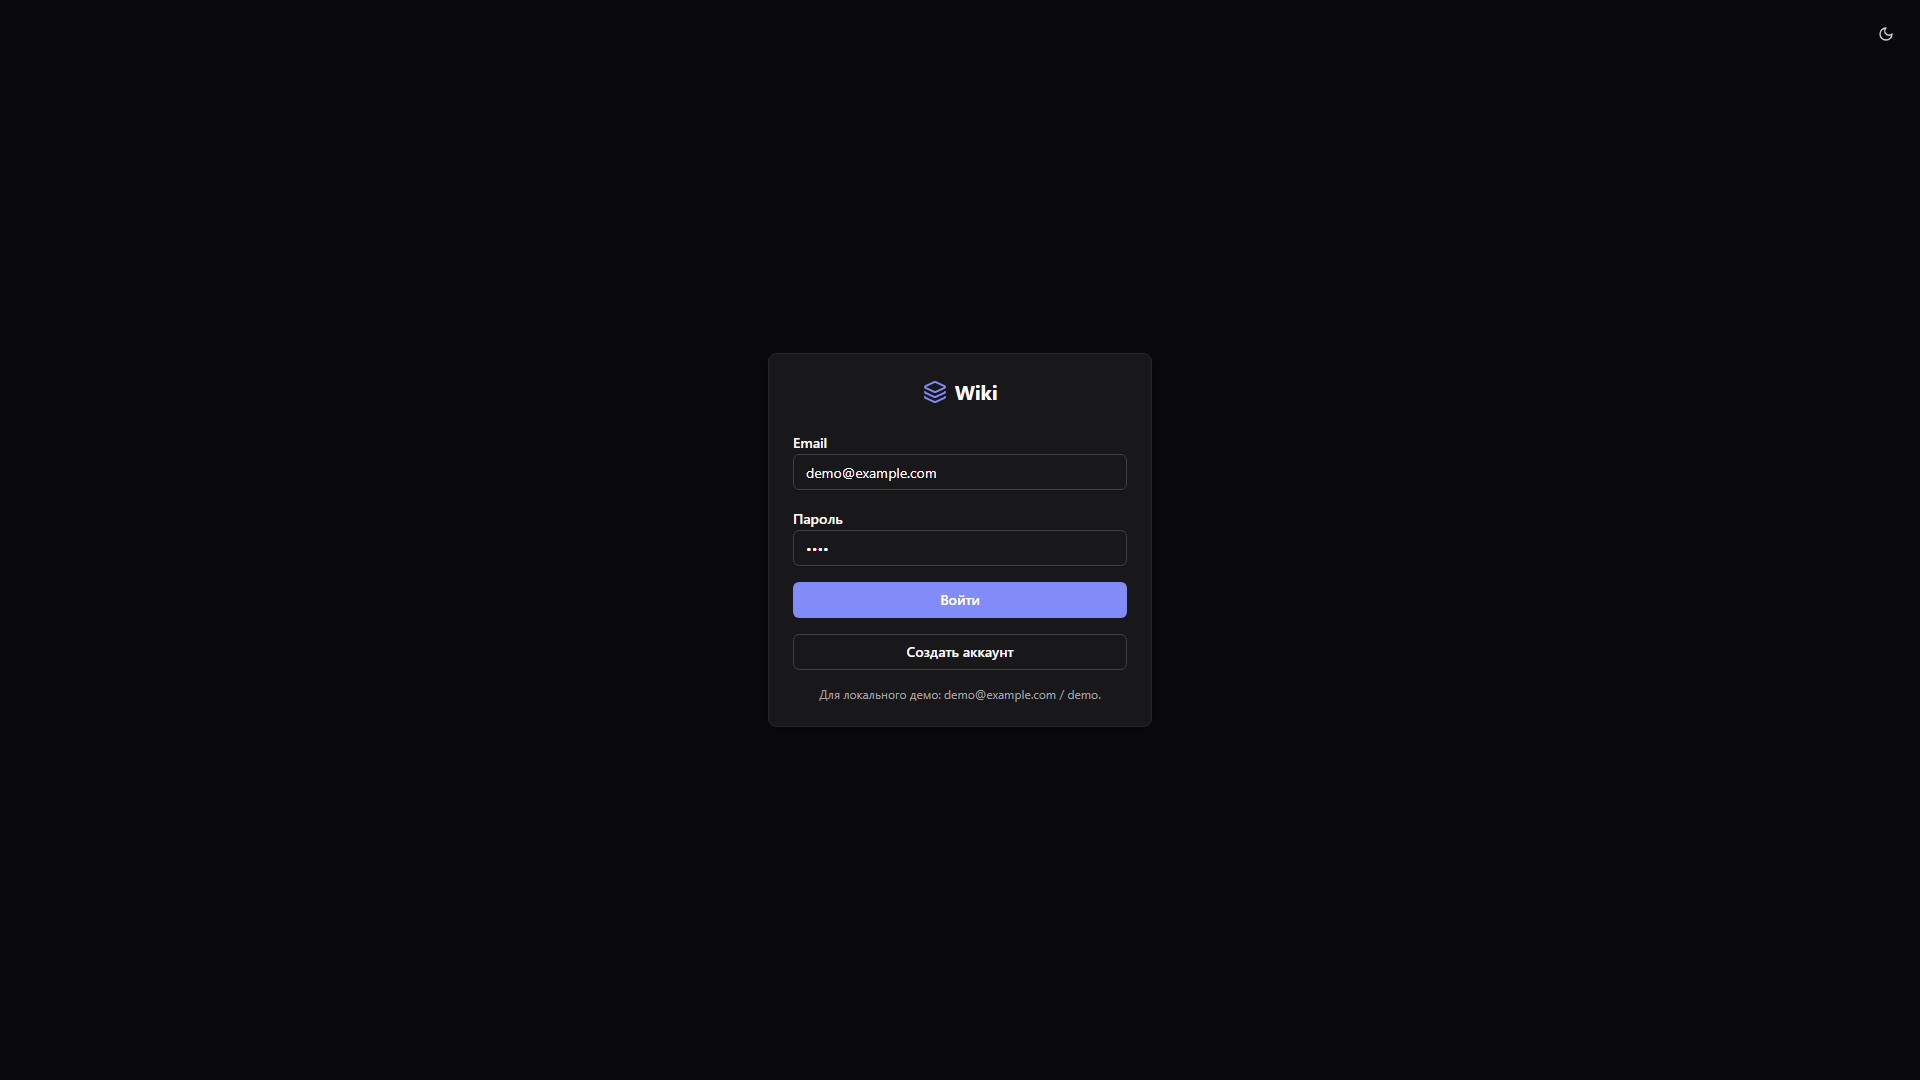
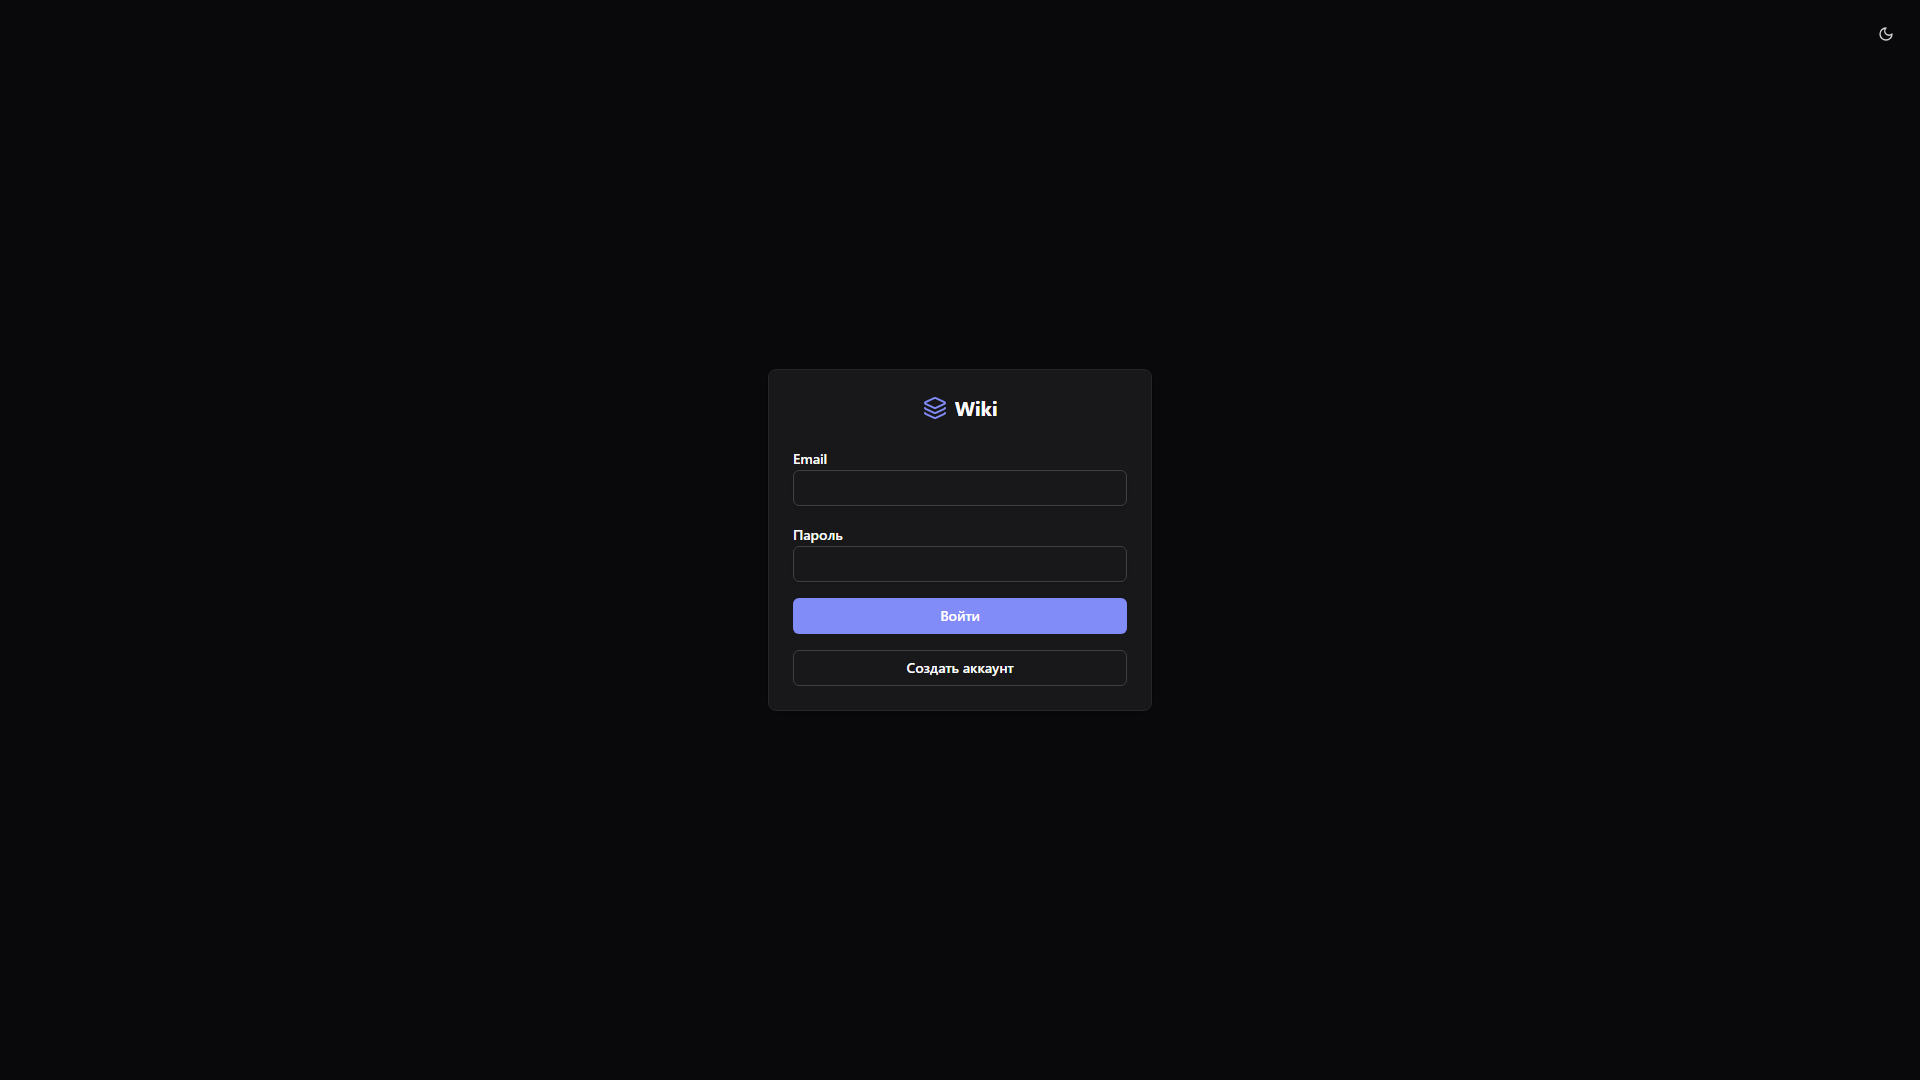
fix(frontend): remove demo login defaults

Changed region(s): [[0.4062, 0.3972, 0.5938, 0.6722], [0.4688, 0.3361, 0.5312, 0.3972]]

diff --git a/frontend/src/pages/login/login.test.tsx b/frontend/src/pages/login/login.test.tsx
@@ -46,22 +46,34 @@ describe('LoginPage', () => {
     login.mockResolvedValueOnce({
       access_token: 'tok',
       user_id: 'u1',
-      email: 'demo@example.com',
+      email: 'admin@example.com',
     })
 
     render(wrapper(<LoginPage />))
     expect(screen.getByText('Wiki')).toBeInTheDocument()
 
-    const email = screen.getByDisplayValue('demo@example.com') as HTMLInputElement
-    await userEvent.clear(email)
-    await userEvent.type(email, 'demo@example.com')
-    const password = screen.getByDisplayValue('demo') as HTMLInputElement
-    await userEvent.clear(password)
-    await userEvent.type(password, 'demo')
+    const email = screen.getByLabelText(/email/i) as HTMLInputElement
+    expect(email).toHaveValue('')
+    await userEvent.type(email, 'admin@example.com')
+    const password = screen.getByLabelText(/пароль|password/i) as HTMLInputElement
+    expect(password).toHaveValue('')
+    await userEvent.type(password, 'correct-horse-battery-staple')
 
     const submit = screen.getByRole('button', { name: /войти|Log in/i })
     await userEvent.click(submit)
 
-    await waitFor(() => expect(login).toHaveBeenCalled())
+    await waitFor(() =>
+      expect(login).toHaveBeenCalledWith(
+        {
+          email: 'admin@example.com',
+          password: 'correct-horse-battery-staple',
+        },
+        expect.anything(),
+      ),
+    )
+    expect(login.mock.calls[0]?.[0]).toEqual({
+      email: 'admin@example.com',
+      password: 'correct-horse-battery-staple',
+    })
   })
 })

diff --git a/frontend/src/pages/login/index.tsx b/frontend/src/pages/login/index.tsx
@@ -13,8 +13,8 @@ export function LoginPage() {
   const { t } = useTranslation()
   const navigate = useNavigate()
   const { mutate, isPending, error } = useLogin()
-  const [email, setEmail] = useState('demo@example.com')
-  const [password, setPassword] = useState('demo')
+  const [email, setEmail] = useState('')
+  const [password, setPassword] = useState('')
 
   function handleSubmit(e: React.FormEvent) {
     e.preventDefault()
@@ -44,6 +44,7 @@ export function LoginPage() {
             <Input
               id="login-email"
               type="email"
+              autoComplete="email"
               value={email}
               onChange={(e) => setEmail(e.target.value)}
               required
@@ -56,6 +57,7 @@ export function LoginPage() {
             <Input
               id="login-password"
               type="password"
+              autoComplete="current-password"
               value={password}
               onChange={(e) => setPassword(e.target.value)}
               required
@@ -69,7 +71,6 @@ export function LoginPage() {
             <a href="/register">{t('auth.createAccount')}</a>
           </Button>
         </form>
-        <p className="mt-4 text-center text-xs text-text-muted">{t('auth.loginDemo')}</p>
       </div>
     </div>
   )

diff --git a/frontend/e2e/smoke.spec.ts b/frontend/e2e/smoke.spec.ts
@@ -7,9 +7,9 @@ const baseURL =
 const now = '2026-08-31T10:00:00Z'
 const user = {
   id: '00000000-0000-0000-0000-000000000001',
-  email: 'demo@example.com',
-  username: 'demo',
-  display_name: 'Демо пользователь',
+  email: 'admin@example.com',
+  username: 'admin',
+  display_name: 'Администратор',
   role: 'admin',
   is_system_admin: true,
   active: true,
@@ -450,8 +450,8 @@ test.describe('wiki smoke', () => {
   test('login and navigate through wiki shell pages', async ({ page }) => {
     const apiMocks = await installWikiApiMocks(page)
     await page.goto(`${baseURL}/login`)
-    await page.getByRole('textbox').nth(0).fill('demo@example.com')
-    await page.getByRole('textbox').nth(1).fill('demo')
+    await page.getByRole('textbox').nth(0).fill('admin@example.com')
+    await page.getByRole('textbox').nth(1).fill('correct-horse-battery-staple')
     await page.getByRole('button', { name: /войти/i }).click()
 
     await expect(page).toHaveURL(`${baseURL}/`, { timeout: 10_000 })

diff --git a/docs/CURRENT_STATE.md b/docs/CURRENT_STATE.md
@@ -20,7 +20,7 @@
 | PostgreSQL smoke | Current | Env-gated tests with the `wiki_postgres_` prefix cover disabled registration, membership revocation, persistence across backend/router rebuilds and FTS index-plan evidence. `scripts/postgres-smoke.ps1` runs them against Docker Postgres; `scripts/postgres-smoke-wsl.ps1` runs the same suite against an isolated temporary WSL PostgreSQL database. |
 | Attachments | Current | Attachment uploads reject empty files, unsafe names and runtime size-limit violations; bytes are behind `domain::wiki::WikiAttachmentStorage`, and server wires `infra::LocalWikiAttachmentStorage`, which rejects unsafe or platform-ambiguous storage keys. |
 | CLI | Current | `wiki` CLI covers the MVP public API groups for auth, users, spaces/member management, documents/revisions, task/phase dossiers, evidence, attachments, templates, audit, search and settings. |
-| Frontend API-backed pages | Current | Dashboard, spaces, documents, tasks, phases, evidence, templates, users, settings, admin overview, audit and search read from the public Wiki API; create/update/archive space, assign/remove space members, create/edit/publish/archive/move document, link existing documents to task/phase dossiers, create template, create/update user, URL evidence and file evidence forms, evidence deep-link detail, attachment metadata and attachment download call the same API. |
+| Frontend API-backed pages | Current | Dashboard, spaces, documents, tasks, phases, evidence, templates, users, settings, admin overview, audit and search read from the public Wiki API; create/update/archive space, assign/remove space members, create/edit/publish/archive/move document, link existing documents to task/phase dossiers, create template, create/update user, URL evidence and file evidence forms, evidence deep-link detail, attachment metadata and attachment download call the same API. Production login fields are empty by default and no frontend route or screenshot advertises memory-test demo credentials. |
 | Screenshot evidence | Current | 17 desktop and 5 mobile screenshots exist for the MVP page set; README renders the gallery inline and `docs/assets/screens/manifest.md` references the same files. |
 | Documentation set | Current | CI/CD-style documentation filename parity is preserved. User guide, test plan and threat model now explicitly cover the MVP page map, API/CLI parity, screenshot evidence and security controls without adding deferred task-tracker scope. |
 | Pre-development readiness | Current | `docs/MVP_READINESS.md` defines the 100% gate for starting main development, with capability coverage, design freeze, API/CLI freeze, negative cases, developer handoff and go/no-go checklist. |
@@ -42,12 +42,12 @@
 
 - Latest backend WSL regression after readiness, FTS query, attachment upload hardening, compose cleanup and shared tracker cleanup: `cargo fmt --all -- --check`, `cargo check --workspace`, `cargo test --workspace -- --test-threads=1 --nocapture`, `cargo clippy --workspace --all-targets -- -D warnings`.
 - Focused PostgreSQL test group passes against an isolated temporary WSL PostgreSQL database through `pwsh -File scripts/postgres-smoke-wsl.ps1`; the same test group also compiles and safely skips without `WIKI_TEST_DATABASE_URL`.
-- Latest frontend regression after attachment metadata/download, search filter UI, task/phase document link UI and evidence deep-link detail: `npm run typecheck`, `npm run test`, `npm run lint`, `npm run format:check`, `npm run build`, `npm run test:e2e -- --project=chromium`.
+- Latest frontend regression after attachment metadata/download, search filter UI, task/phase document link UI, evidence deep-link detail and production login cleanup: `npm run typecheck`, `npm run test`, `npm run lint`, `npm run format:check`, `npm run build`, `npm run test:e2e -- --project=chromium`.
 - Docker PostgreSQL smoke runner syntax check passed; `pwsh -File scripts/postgres-smoke.ps1` currently stops with a clear Docker-daemon unavailable message on this host because `com.docker.service` cannot be started from this process.
 - `docker compose config`, `docker compose -f backend/docker-compose.test.yml config` and `docker compose -f docker-compose.test.yml config` render the MVP service set without extra cache/worker services.
 - Dev/ops scripts parse cleanly through `bash -n scripts/init.sh scripts/run-e2e-tests.sh scripts/deploy-production.sh scripts/deploy-staging.sh backend/scripts/run-e2e-tests.sh scripts/backup.sh scripts/restore.sh scripts/cleanup_old_backups.sh`; static search confirms no active Redis, `migrator` service or `TT_DB_PASS` dependency remains in Wiki init/test/deploy commands.
 - Backup/restore scripts now use the current Docker Compose runtime: `postgres`, `backend`, `POSTGRES_*` with legacy `WIKI_DB_*` fallback, and the `uploads` volume through `WIKI_STORAGE__DIR`.
-- Screenshot script passed against `vite preview`: `npm run shoot:evidence` captured 17 desktop and 5 mobile MVP screenshots.
+- Screenshot script passed against `vite preview`: `npm run shoot:evidence` captured 17 desktop and 5 mobile MVP screenshots, including an empty production login form without demo credentials.
 - Static checks confirmed no active references to removed `/integrations`, `/reports` or `/notifications` routes, no unresolved task markers, no short Markdown docs, README/manifest screenshot refs with `missing=0`, API/PRD documentation parity with all 42 OpenAPI paths and CI/CD docs parity `missing_from_wiki=0`.
 
 ## Known Local Environment Limits
